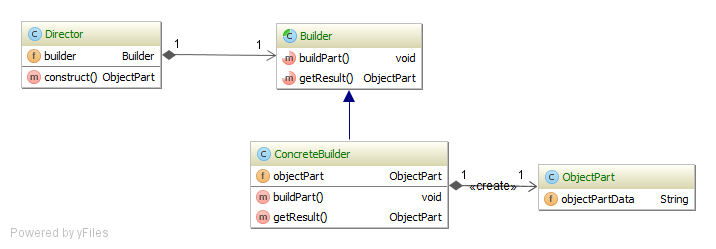
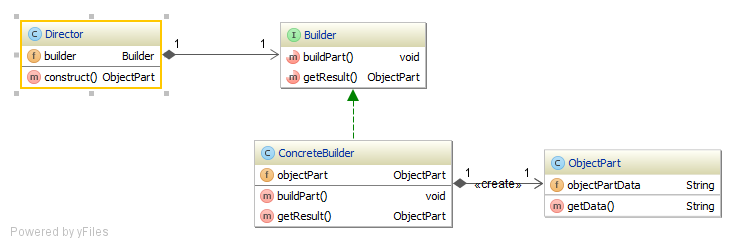
Pattern builder refactoring

diff --git a/src/test/java/com/github/kurkov/basepatterns/creational/builder/pattern/BuilderTest.java b/src/test/java/com/github/kurkov/basepatterns/creational/builder/pattern/BuilderTest.java
@@ -1,0 +1,20 @@
+package com.github.kurkov.basepatterns.creational.builder.pattern;
+
+import org.junit.Test;
+
+import static org.junit.Assert.*;
+
+/**
+ * @author Aleksey Kurkov. Created on 31.10.2016
+ */
+public class BuilderTest {
+
+    @Test
+    public void testBuilder() {
+        Builder builder = new ConcreteBuilder();
+        Director director = new Director(builder);
+
+        ObjectPart objectPart = director.construct();
+        assertEquals("New object data", objectPart.getData());
+    }
+}

diff --git a/src/main/java/com/github/kurkov/basepatterns/creational/builder/pattern/Director.java b/src/main/java/com/github/kurkov/basepatterns/creational/builder/pattern/Director.java
@@ -6,10 +6,13 @@ package com.github.kurkov.basepatterns.creational.builder.pattern;
 public class Director {
     private Builder builder;
 
+    public Director(Builder builder) {
+        this.builder = builder;
+    }
+
     public ObjectPart construct() {
         builder.buildPart();
-        ObjectPart objectPart = builder.getResult();
 
-        return objectPart;
+        return builder.getResult();
     }
 }

diff --git a/src/main/java/com/github/kurkov/basepatterns/creational/builder/pattern/Builder.java b/src/main/java/com/github/kurkov/basepatterns/creational/builder/pattern/Builder.java
@@ -3,9 +3,9 @@ package com.github.kurkov.basepatterns.creational.builder.pattern;
 /**
  * @author Aleksey Kurkov. Created on 31.10.2016
  */
-public abstract class Builder {
+public interface Builder {
 
-    public abstract void buildPart();
+    void buildPart();
 
-    public abstract ObjectPart getResult();
+    ObjectPart getResult();
 }

diff --git a/src/main/java/com/github/kurkov/basepatterns/creational/builder/pattern/ConcreteBuilder.java b/src/main/java/com/github/kurkov/basepatterns/creational/builder/pattern/ConcreteBuilder.java
@@ -3,7 +3,7 @@ package com.github.kurkov.basepatterns.creational.builder.pattern;
 /**
  * @author Aleksey Kurkov. Created on 31.10.2016
  */
-public class ConcreteBuilder extends Builder {
+public class ConcreteBuilder implements Builder {
 
     private ObjectPart objectPart;
 

diff --git a/src/main/java/com/github/kurkov/basepatterns/creational/builder/pattern/ObjectPart.java b/src/main/java/com/github/kurkov/basepatterns/creational/builder/pattern/ObjectPart.java
@@ -9,4 +9,8 @@ public class ObjectPart {
     public ObjectPart(String objectPartData) {
         this.objectPartData = objectPartData;
     }
+
+    public String getData() {
+        return objectPartData;
+    }
 }
